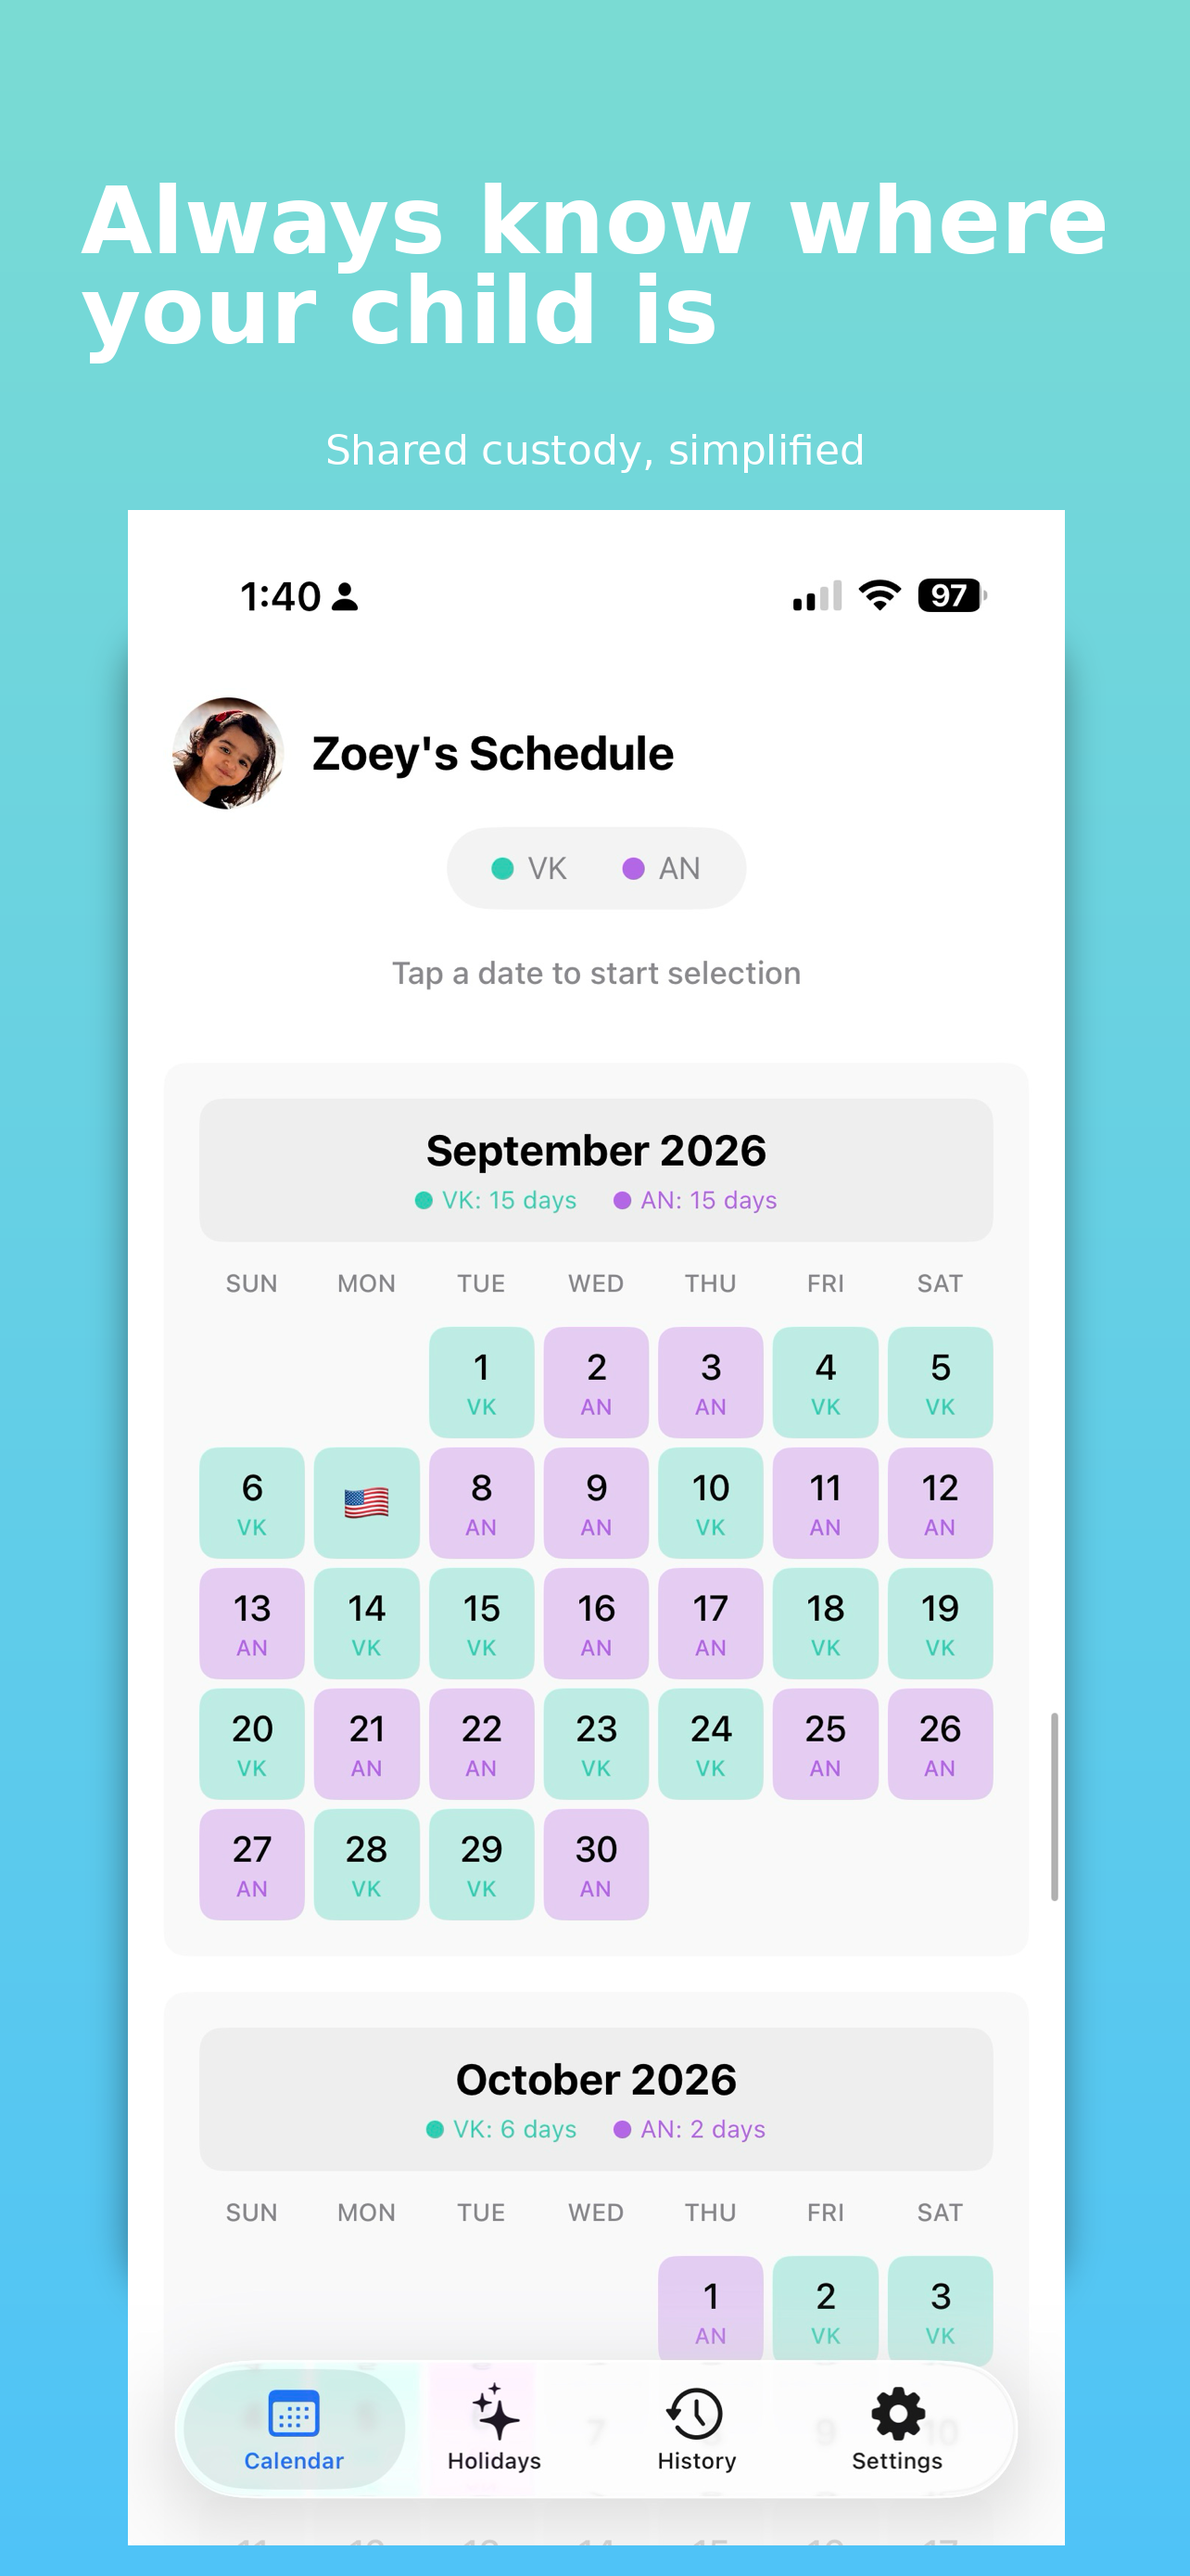
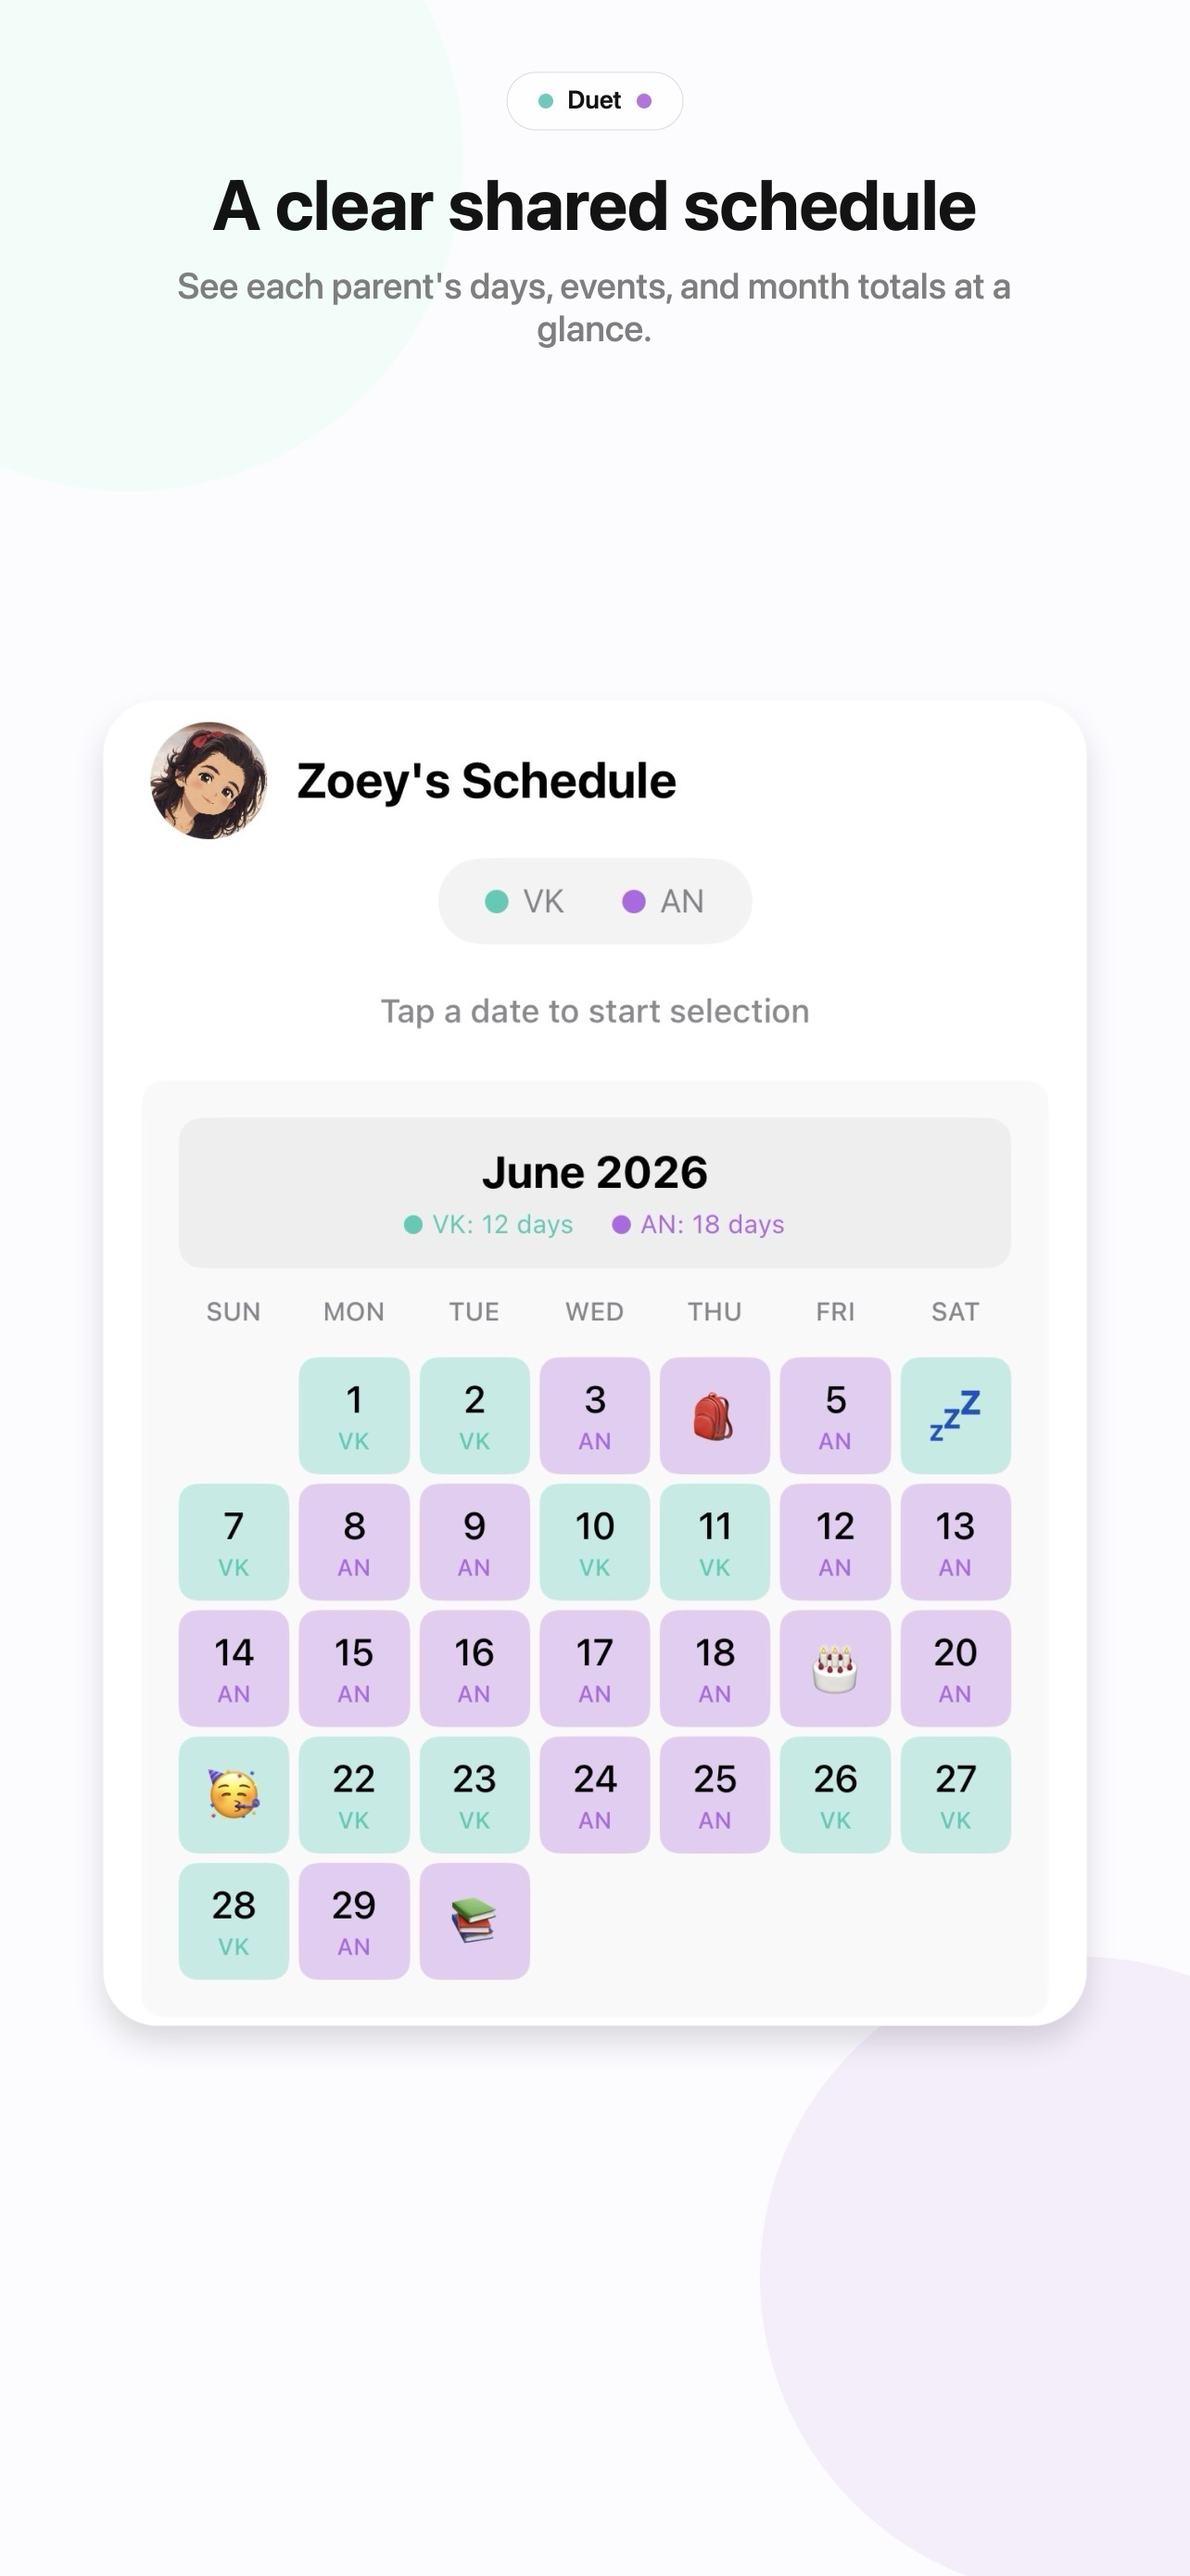
Refresh Duet brand screenshots

diff --git a/index.html b/index.html
@@ -44,7 +44,10 @@
         "downloadUrl": "https://apps.apple.com/app/apple-store/id6756833862",
         "featureList": [
           "Custody schedule calendar",
+          "Events and pickup reminders",
           "Holiday and school break planning",
+          "Schedule change history",
+          "Co-parent chats",
           "Private iCloud sharing",
           "Home Screen widgets",
           "Pickup reminders and Live Activity support"
@@ -174,8 +177,8 @@
           <p>Invite the other parent with a shared calendar link and keep updates synced through iCloud.</p>
         </article>
         <article>
-          <strong>Home Screen widget</strong>
-          <p>See the next two weeks of custody days at a glance without opening the app.</p>
+          <strong>History and chats</strong>
+          <p>Review schedule changes and keep co-parent conversations organized by topic.</p>
         </article>
         <article>
           <strong>Pickup reminders</strong>
@@ -202,6 +205,27 @@
               alt="Duet holiday planning screen"
             />
             <figcaption>Holiday planning</figcaption>
+          </figure>
+          <figure class="shot">
+            <img
+              src="./assets/screenshots/events-and-reminders.png"
+              alt="Duet events list with school dates, camps, birthdays, and pickup reminders"
+            />
+            <figcaption>Events and reminders</figcaption>
+          </figure>
+          <figure class="shot">
+            <img
+              src="./assets/screenshots/change-history.png"
+              alt="Duet schedule change history details"
+            />
+            <figcaption>Change history</figcaption>
+          </figure>
+          <figure class="shot">
+            <img
+              src="./assets/screenshots/co-parent-chats.png"
+              alt="Duet chats organized by co-parenting topic"
+            />
+            <figcaption>Chats by topic</figcaption>
           </figure>
           <figure class="shot">
             <img
